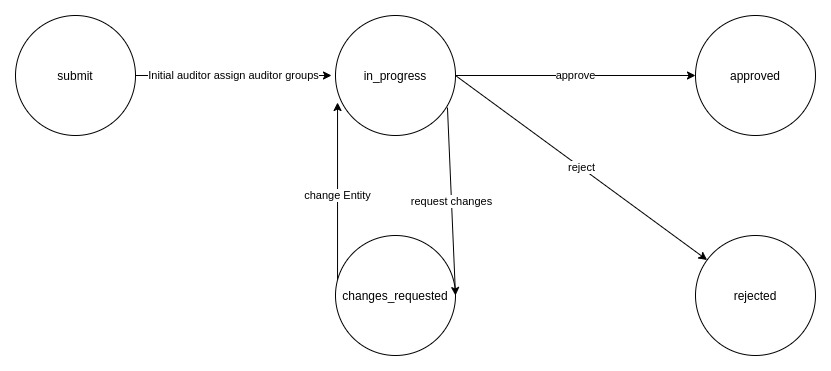
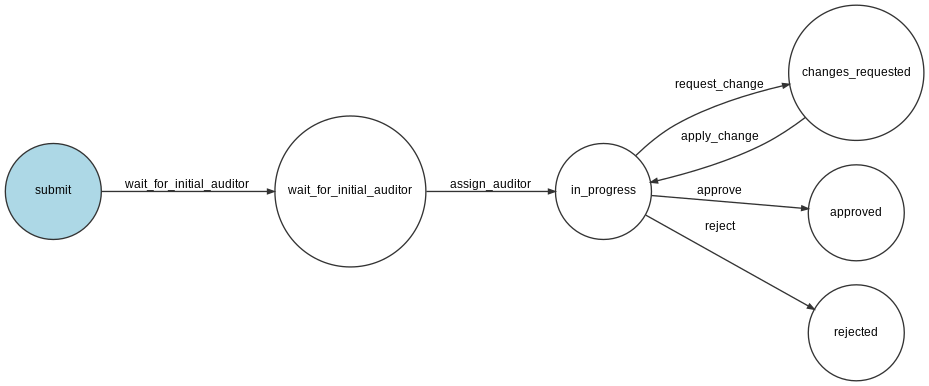
added workflow

diff --git a/src/Manager/EntityApprovementWorkflowManager.php b/src/Manager/EntityApprovementWorkflowManager.php
@@ -1,0 +1,121 @@
+<?php
+
+/*
+ * Copyright (c) 2021 Heimrich & Hannot GmbH
+ * @license LGPL-3.0-or-later
+ */
+
+namespace HeimrichHannot\EntityApprovementBundle\Manager;
+
+use Contao\Model;
+use Contao\StringUtil;
+use HeimrichHannot\EntityApprovementBundle\DataContainer\EntityApprovementContainer;
+use HeimrichHannot\EntityApprovementBundle\DependencyInjection\Configuration;
+use Symfony\Component\Workflow\WorkflowInterface;
+
+class EntityApprovementWorkflowManager
+{
+    protected array             $bundleConfig;
+    protected WorkflowInterface $entityApprovementStateMachine;
+
+    public function __construct(WorkflowInterface $entityApprovementStateMachine, array $bundleConfig)
+    {
+        $this->bundleConfig = $bundleConfig;
+        $this->entityApprovementStateMachine = $entityApprovementStateMachine;
+    }
+
+    public function startWorkflow(Model $model): void
+    {
+        if (null === $model->row()['huhApprovement_auditor']) {
+//            $this->entityApprovementStateMachine->getEnabledTransitions($model);
+//            $this->entityApprovementStateMachine->apply($model, EntityApprovementContainer::APPROVEMENT_STATE_WAIT_FOR_INITIAL_AUDITOR);
+//            $model->huhApprovement_state = EntityApprovementContainer::APPROVEMENT_STATE_WAIT_FOR_INITIAL_AUDITOR;
+            $model->save();
+        }
+    }
+
+    public function workflowAuditorChange($value, Model $model): void
+    {
+        //wenn $value null -> state wait_for_initial_auditor
+        if (null === $value && $this->entityApprovementStateMachine->can($model, EntityApprovementContainer::APPROVEMENT_STATE_WAIT_FOR_INITIAL_AUDITOR)) {
+            $this->entityApprovementStateMachine->apply($model, EntityApprovementContainer::APPROVEMENT_STATE_WAIT_FOR_INITIAL_AUDITOR);
+            $model->huhApprovement_state = EntityApprovementContainer::APPROVEMENT_STATE_WAIT_FOR_INITIAL_AUDITOR;
+            $model->save();
+
+            $this->sendMails(EntityApprovementContainer::APPROVEMENT_STATE_WAIT_FOR_INITIAL_AUDITOR, $model::getTable(), []);
+        }
+
+        if (null !== $value && $this->entityApprovementStateMachine->can($model, EntityApprovementContainer::APPROVEMENT_STATE_IN_PROGRESS)) {
+            $this->entityApprovementStateMachine->apply($model, EntityApprovementContainer::APPROVEMENT_STATE_IN_PROGRESS);
+            $model->huhApprovement_state = EntityApprovementContainer::APPROVEMENT_STATE_IN_PROGRESS;
+            $model->save();
+
+            // this array contains already saved auditor groups("former") if existing, and also groups just assigned("new")
+            $auditors = [
+                'former_auditor' => StringUtil::deserialize($model->huhApprovement_auditor, true),
+                'new_auditor' => StringUtil::deserialize($value, true),
+                'author' => $model[$this->bundleConfig[$model::getTable()]['author_field']],
+            ];
+
+            $this->sendMails(EntityApprovementContainer::APPROVEMENT_STATE_IN_PROGRESS, $model::getTable(), $auditors);
+        }
+    }
+
+    public function sendMails(string $state, string $table, array $involved): void
+    {
+        if ($this->bundleConfig[$table]['emails']['state_changed_author'] && isset($involved['author'])) {
+            $this->sendMail($involved['author']);
+        }
+
+        switch ($state) {
+            case EntityApprovementContainer::APPROVEMENT_STATE_WAIT_FOR_INITIAL_AUDITOR:
+                $initialAuditors = explode(',', $this->bundleConfig[$table]['initial_auditor_groups']);
+
+                if (empty($initialAuditors)) {
+                    return;
+                }
+
+                if ($this->bundleConfig[$table]['initial_auditor_mode'][Configuration::AUDITOR_MODE_RANDOM]) {
+                    //send mails to all initial auditors
+                    $this->sendMail($initialAuditors);
+                } elseif ($this->bundleConfig[$table]['initial_auditor_mode'][Configuration::AUDITOR_MODE_ALL]) {
+                    //send mails to a random initial auditor
+                    $this->sendMail([$initialAuditors[array_rand($initialAuditors)]]);
+                }
+
+                break;
+
+            case EntityApprovementContainer::APPROVEMENT_STATE_IN_PROGRESS:
+                $stayedAuditors = array_intersect($involved['former_auditor'], $involved['new_auditor']);
+
+                if ($this->bundleConfig[$table]['emails']['auditor_changed_former'] && !empty($involved['former_auditor'])) {
+                    //send mails to former auditors he is not an auditor anymore
+                    $this->sendMail(array_diff($involved['former_auditor'], $stayedAuditors));
+                }
+
+                if ($this->bundleConfig[$table]['emails']['auditor_changed_new'] && !empty($involved['new_auditor'])) {
+                    //send mails to new auditors who was not auditor before
+                    $this->sendMail(array_diff($involved['new_auditor'], $stayedAuditors));
+                }
+
+                break;
+
+            case EntityApprovementContainer::APPROVEMENT_STATE_APPROVED:
+
+                break;
+
+            case EntityApprovementContainer::APPROVEMENT_STATE_REJECTED:
+                break;
+
+            case EntityApprovementContainer::APPROVEMENT_STATE_CHANGES_REQUESTED:
+                break;
+
+            default:
+                break;
+        }
+    }
+
+    private function sendMail(array $recipients): void
+    {
+    }
+}

diff --git a/src/DataContainer/EntityApprovementContainer.php b/src/DataContainer/EntityApprovementContainer.php
@@ -8,34 +8,41 @@
 namespace HeimrichHannot\EntityApprovementBundle\DataContainer;
 
 use Contao\DataContainer;
+use HeimrichHannot\EntityApprovementBundle\Manager\EntityApprovementWorkflowManager;
 use HeimrichHannot\UtilsBundle\Database\DatabaseUtil;
+use HeimrichHannot\UtilsBundle\Model\ModelUtil;
 
 class EntityApprovementContainer
 {
+    const APPROVEMENT_STATE_WAIT_FOR_INITIAL_AUDITOR = 'wait_for_initial_auditor';
     const APPROVEMENT_STATE_IN_PROGRESS = 'in_progress';
     const APPROVEMENT_STATE_CHANGES_REQUESTED = 'changes_requested';
     const APPROVEMENT_STATE_APPROVED = 'approved';
     const APPROVEMENT_STATE_REJECTED = 'rejected';
 
     const APPROVEMENT_STATES = [
+        self::APPROVEMENT_STATE_WAIT_FOR_INITIAL_AUDITOR,
         self::APPROVEMENT_STATE_IN_PROGRESS,
         self::APPROVEMENT_STATE_CHANGES_REQUESTED,
         self::APPROVEMENT_STATE_APPROVED,
         self::APPROVEMENT_STATE_REJECTED,
     ];
-    /**
-     * @var array
-     */
-    protected $bundleConfig;
-    /**
-     * @var DatabaseUtil
-     */
-    protected $databaseUtil;
 
-    public function __construct(DatabaseUtil $databaseUtil, array $bundleConfig)
-    {
+    protected array                            $bundleConfig;
+    protected DatabaseUtil                     $databaseUtil;
+    protected EntityApprovementWorkflowManager $workflowManager;
+    protected ModelUtil $modelUtil;
+
+    public function __construct(
+        DatabaseUtil $databaseUtil,
+        ModelUtil $modelUtil,
+        EntityApprovementWorkflowManager $workflowManager,
+        array $bundleConfig
+    ) {
         $this->bundleConfig = $bundleConfig;
         $this->databaseUtil = $databaseUtil;
+        $this->workflowManager = $workflowManager;
+        $this->modelUtil = $modelUtil;
     }
 
     public function getAuditors(?DataContainer $dc): array
@@ -53,5 +60,25 @@ class EntityApprovementContainer
         }
 
         return $options;
+    }
+
+    public function startWorkflow(string $table, int $insertId, array $fields, DataContainer $dc): void
+    {
+        $model = $this->modelUtil->findModelInstanceByPk($table, $insertId);
+        $this->workflowManager->startWorkflow($model);
+    }
+
+    public function applyWorkflowState(DataContainer $dc): void
+    {
+        $model = $this->modelUtil->findModelInstanceByPk($dc->table, $dc->id);
+        $this->workflowManager->workflowStateChange($model);
+    }
+
+    public function onAuditorsSave($value, DataContainer $dc)
+    {
+        $model = $this->modelUtil->findModelInstanceByPk($dc->table, $dc->id);
+        $this->workflowManager->workflowAuditorChange($value, $model);
+
+        return $value;
     }
 }

diff --git a/src/Manager/EntityApprovementManager.php b/src/Manager/EntityApprovementManager.php
@@ -8,20 +8,13 @@
 namespace HeimrichHannot\EntityApprovementBundle\Manager;
 
 use Contao\CoreBundle\DataContainer\PaletteManipulator;
-use Contao\DataContainer;
 use HeimrichHannot\EntityApprovementBundle\DataContainer\EntityApprovementContainer;
 use HeimrichHannot\UtilsBundle\Dca\DcaUtil;
 
 class EntityApprovementManager
 {
-    /**
-     * @var array
-     */
-    protected $bundleConfig;
-    /**
-     * @var DcaUtil
-     */
-    protected $dcaUtil;
+    protected array             $bundleConfig;
+    protected DcaUtil           $dcaUtil;
 
     public function __construct(DcaUtil $dcaUtil, array $bundleConfig)
     {
@@ -56,11 +49,8 @@ class EntityApprovementManager
         }
 
         $dca = &$GLOBALS['TL_DCA'][$table];
-        $dca['config']['onsubmit_callback'] = [EntityApprovementContainer::class, 'initWorkflow'];
-    }
-
-    public function initWorkflow(DataContainer $dc): void
-    {
+        $dca['config']['oncreate_callback'] = [[EntityApprovementContainer::class, 'startWorkflow']];
+//        $dca['config']['onsubmit_callback'] = [[EntityApprovementContainer::class, 'applyWorkflowState']];
     }
 
     private function addApprovementFieldsToDca(string $table): void
@@ -76,6 +66,7 @@ class EntityApprovementManager
                 'inputType' => 'checkbox',
                 'options_callback' => [EntityApprovementContainer::class, 'getAuditors'],
                 'eval' => ['multiple' => true, 'mandatory' => false, 'tl_class' => 'clr w50'],
+                'save_callback' => [[EntityApprovementContainer::class, 'onAuditorsSave']],
                 'attributes' => ['legend' => 'publish_legend', 'fe_sorting' => true, 'fe_search' => true],
                 'sql' => 'blob NULL',
             ],
@@ -89,7 +80,7 @@ class EntityApprovementManager
                 'reference' => &$GLOBALS['TL_LANG']['MSC']['approvement_state'],
                 'eval' => ['mandatory' => false, 'tl_class' => 'w50'],
                 'attributes' => ['legend' => 'publish_legend', 'fe_sorting' => true, 'fe_search' => true],
-                'sql' => 'blob NULL',
+                'sql' => "varchar(32) NOT NULL default ''",
             ],
             'huhApprovement_notes' => [
                 'label' => &$GLOBALS['TL_LANG']['MSC']['approvement_notes'],

diff --git a/src/EventSubscriber/WorkflowEventSubscriber.php b/src/EventSubscriber/WorkflowEventSubscriber.php
@@ -1,0 +1,40 @@
+<?php
+
+/*
+ * Copyright (c) 2021 Heimrich & Hannot GmbH
+ * @license LGPL-3.0-or-later
+ */
+
+namespace HeimrichHannot\EntityApprovementBundle\EventSubscriber;
+
+use Doctrine\Bundle\DoctrineBundle\EventSubscriber\EventSubscriberInterface;
+use Symfony\Component\Workflow\Event\GuardEvent;
+use Symfony\Component\Workflow\Event\LeaveEvent;
+
+class WorkflowEventSubscriber implements EventSubscriberInterface
+{
+    public function getSubscribedEvents()
+    {
+        return [
+            LeaveEvent::class => ['onWorkflowLeave'],
+            GuardEvent::class => ['onWorkflowGuard'],
+            'workflow.entity_approvement.guard.wait_for_initial_auditor' => ['onWorkflowGuard'],
+            'workflow.entity_approvement.guard.in_progress' => ['onWorkflowGuard'],
+            'workflow.entity_approvement.guard.changes_requested' => ['onWorkflowGuard'],
+            'workflow.entity_approvement.guard.approved' => ['onWorkflowGuard'],
+            'workflow.entity_approvement.guard.rejected' => ['onWorkflowGuard'],
+        ];
+    }
+
+    public function onWorkflowLeave(LeaveEvent $event)
+    {
+        $sub = $event->getSubject();
+        $test = 'r';
+    }
+
+    public function onWorkflowGuard(GuardEvent $event)
+    {
+        $sub = $event->getSubject();
+        $test = 't';
+    }
+}

diff --git a/src/DepenedencyInjection/Configuration.php b/src/DepenedencyInjection/Configuration.php
@@ -58,6 +58,10 @@ class Configuration implements ConfigurationInterface
                         ->info('Invert the value of published field.')
                         ->defaultValue(false)
                     ->end()
+                    ->scalarNode('author_field')
+                        ->info('Name of the field that contains the author of the entity.')
+                        ->defaultValue('author')
+                    ->end()
                     ->arrayNode('emails')
                         ->children()
                             ->booleanNode('auditor_changed_former')

diff --git a/src/ContaoManager/Plugin.php b/src/ContaoManager/Plugin.php
@@ -39,5 +39,6 @@ class Plugin implements BundlePluginInterface, ConfigPluginInterface
     public function registerContainerConfiguration(LoaderInterface $loader, array $managerConfig)
     {
         $loader->load('@HeimrichHannotEntityApprovementBundle/Resources/config/services.yml');
+        $loader->load('@HeimrichHannotEntityApprovementBundle/Resources/config/workflow.yml');
     }
 }

diff --git a/README.md b/README.md
@@ -19,3 +19,5 @@ huh_entity_approvement:
       auditor_changed_new: true
       state_changed_author: true
 ```
+
+`vendor/bin/contao-console workflow:dump entity_approvement | dot -Tpng -o vendor/heimrichhannot/contao-entity-approvement-bundle/docs/img/approvement-process.jpg`
